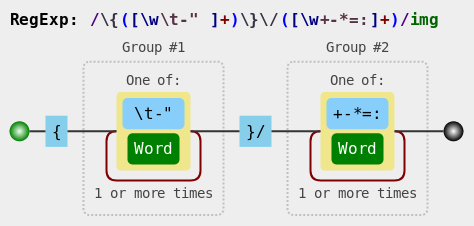
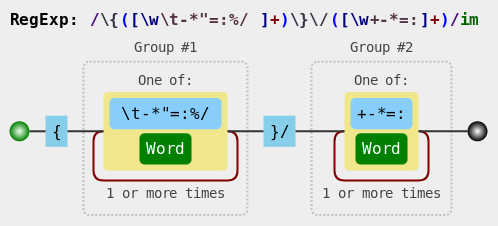
Interpretation adjusts.

diff --git a/notebook/translator/translator.js b/notebook/translator/translator.js
@@ -81,7 +81,7 @@ class Translator {
             let transObj = this._stampObject( 
                mdToObj[selected](Translator.marks[selected].exec(toTranslate)));
             
-            // build the objects vector segmented by knots
+            // attach to a knot array (if it is a knot) or an array inside a knot
             if (selected == "knot") {
                compiledCase.push(transObj);
                compiledKnot = [];
@@ -562,7 +562,7 @@ class Translator {
       talk   : /^[ \t]*: *(\w[\w ]*):[ \t]*([^\n\r\f]+)[\n\r\f]*/im,
       // image  : /<img src="([\w:.\/\?&#\-]+)" (?:alt="([\w ]+)")?>/im,
       input  : /\{[ \t]*\?(\d+)?([\w \t]*)(?:\:([\w \t]*))?\}/im,
-      selector: /\{([\w \t\-"]+)\}\/([\w\+\-\*=\:]+)/im,
+      selector: /\{([\w \t\-\*"=\:%\/]+)\}\/([\w\+\-\*=\:]+)/im,
       domain : /\{([\w \t\+\-\*"=\:%\/]+)\}(?:\(([\w \t\+\-\*"=\:%\/]+)\))?(?!\/)/im
       // score  : /^(?:<p>)?[ \t]*~[ \t]*([\+\-=\*\\%]?)[ \t]*(\w*)?[ \t]*(\w+)[ \t]*(?:<\/p>)?/im
    };

diff --git a/notebook/cases/case001-development/case.md b/notebook/cases/case001-development/case.md
@@ -67,7 +67,7 @@ Likelihood ratio (LR) - like sensitivity and specificity, LR describe the discri
 ![Pulmonary Embolism Wells Criteria](images/ebm-pulmonary-embolism-wells-criteria.png)
 
 == Check hypothesis 1 (selector) ==
-~ states={+,=,-}
+{{symptoms(contribution to diagnostics:+,=,-)
 Among all patient features, signs, and symptoms highlighted on text, select all that increase the probability of your diagnostic hypothesis:
 
 Nurse: Doctor, please you have to evaluate a man ({51 years-old}/=) who entered the emergency department reporting {chest pain}/=.His vital signs are {ABP: 144x92mmHG}/=; {HR: 78bpm}/=; {RR: 21rpm}/=; {Temp: 37oC}/=; {O2Sat: 98%}/=.
@@ -75,7 +75,7 @@ Nurse: Doctor, please you have to evaluate a man ({51 years-old}/=) who entered 
 Patient: Doctor, I am feeling chest pain since yesterday. The {pain is continuous}/= and {is located just in the middle of my chest}/=, {worsening when I breathe}/+ and {when I lay down on my bed}/+. I have {arterial hypertension}/- and {I smoke 20 cigarettes}/- every day. {My father had a "heart attack"}/- at my age and I am very worried about it.
 
 You perform physical examination: {cardiac and pulmonary auscultation are normal}/-; {chest pain does not worse with palpation of the thorax}/=; {there is no jugular stasis}/= {nor lower limb edema}/=.
-
+}}
 ++ Submit -> Order EKG 
 
 == Order EKG ==

diff --git a/notebook/translator/README.md b/notebook/translator/README.md
@@ -159,7 +159,7 @@ Markdown text that does not match to any expression.
 
 ## Selector
 * Sentence: `{[expression]}/[value]`
-* Expression: `\{([\w \t\-"]+)\}\/([\w\+\-\*=\:]+)`
+* Expression: `\{([\w \t\-\*"=\:%\/]+)\}\/([\w\+\-\*=\:]+)`
   * Group #1: expression
   * Group #2: value
 ![Selector Expression](expressions/selector.png)
